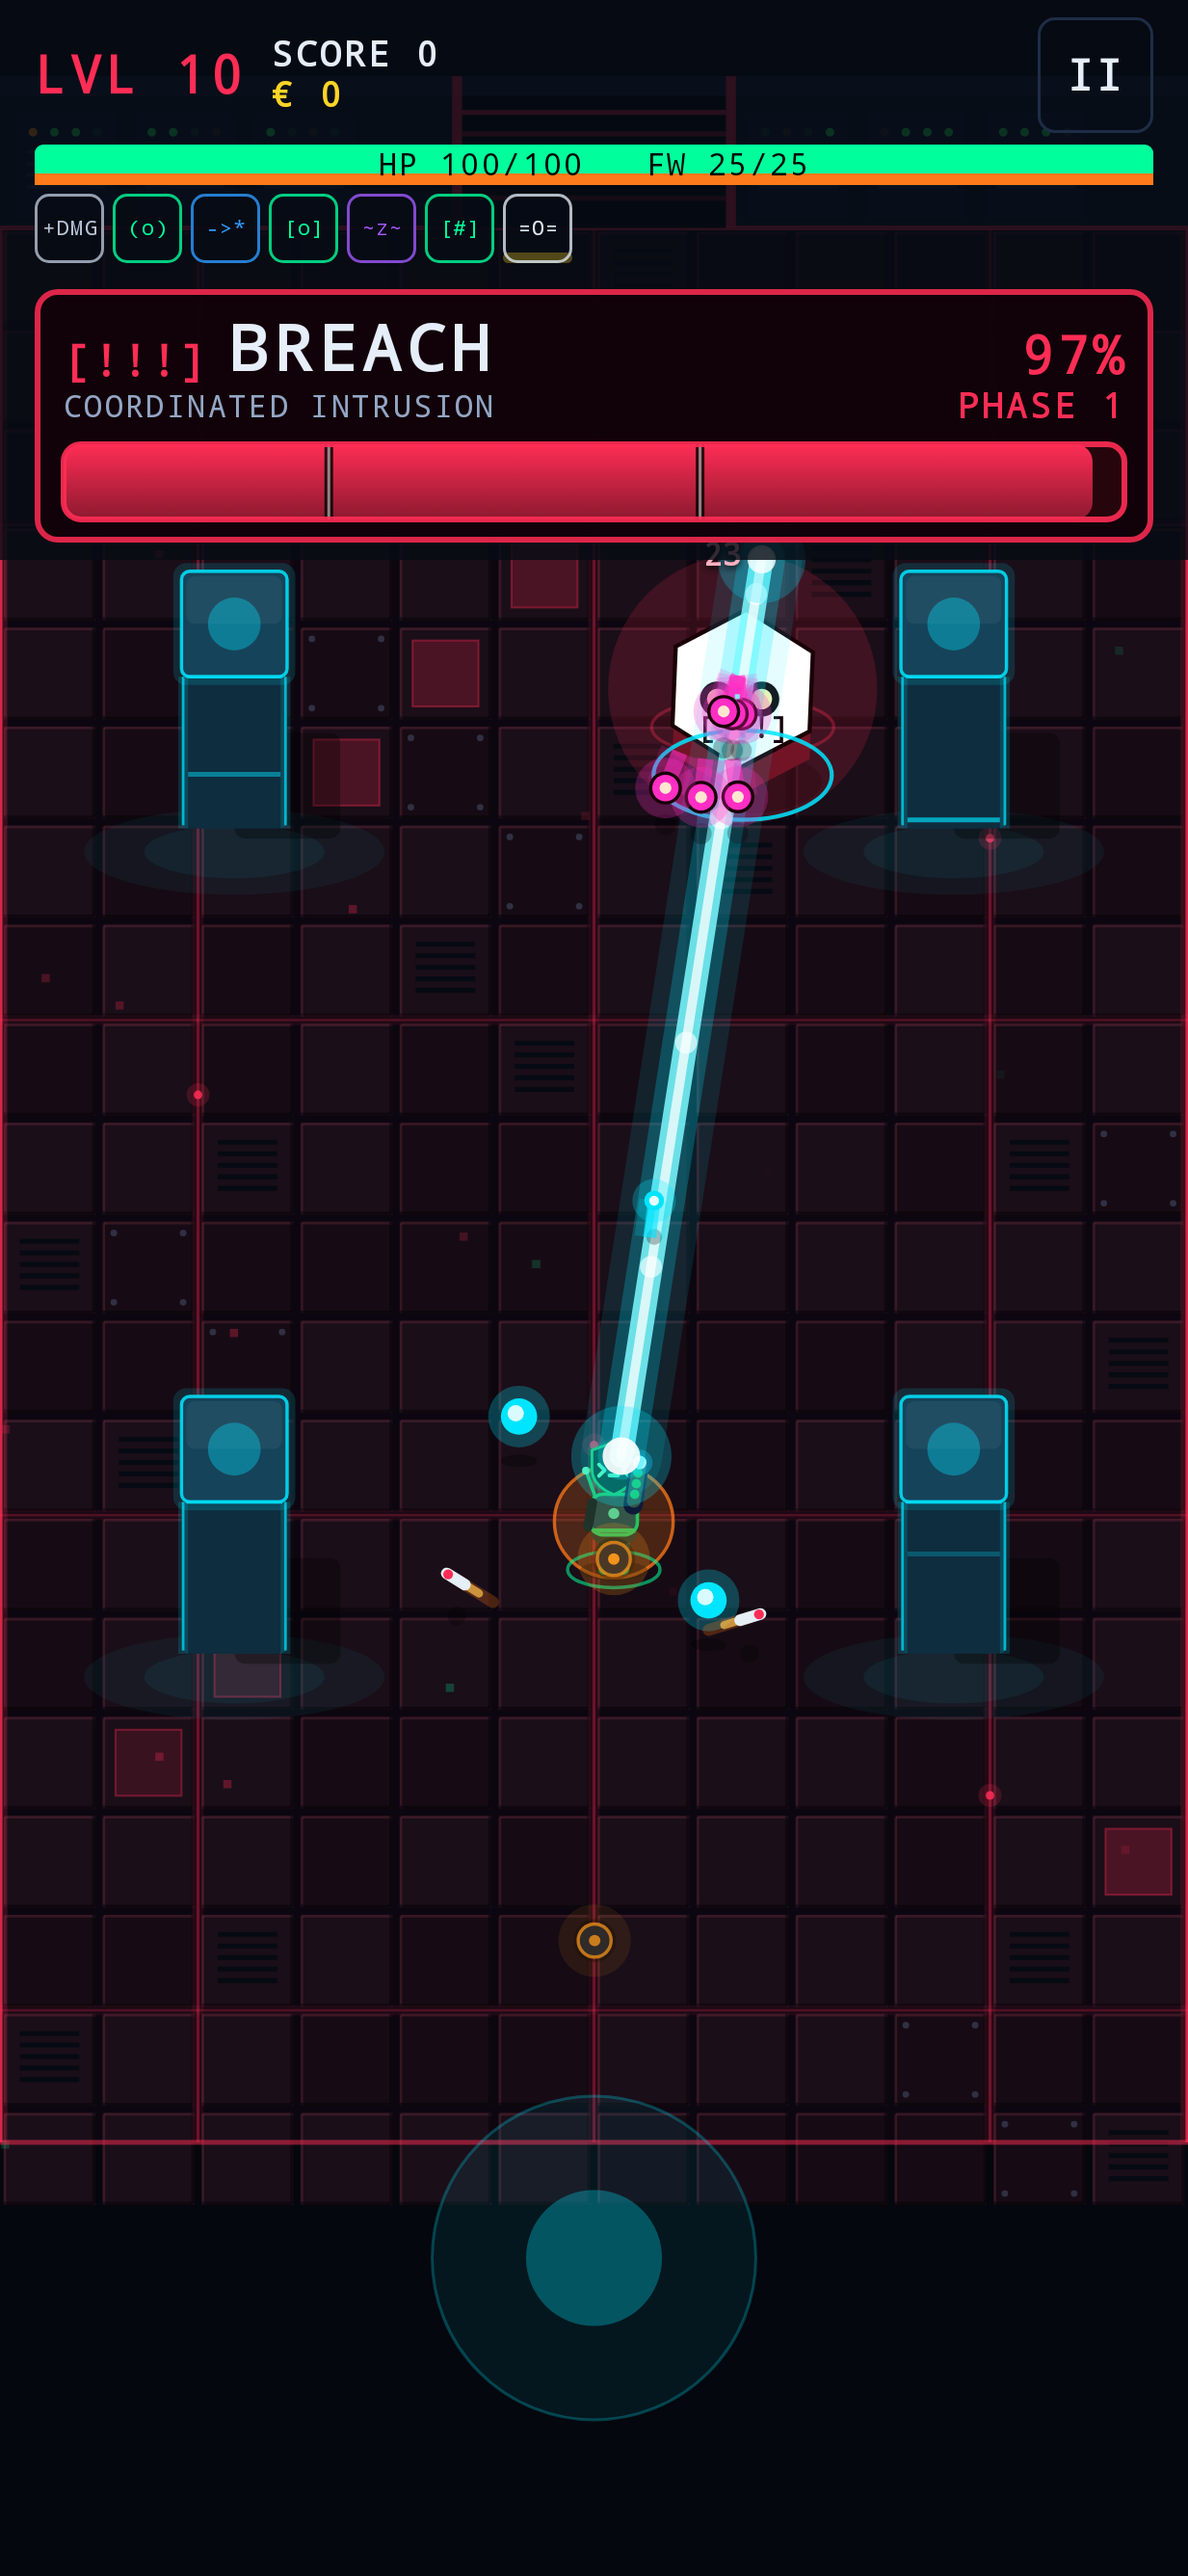
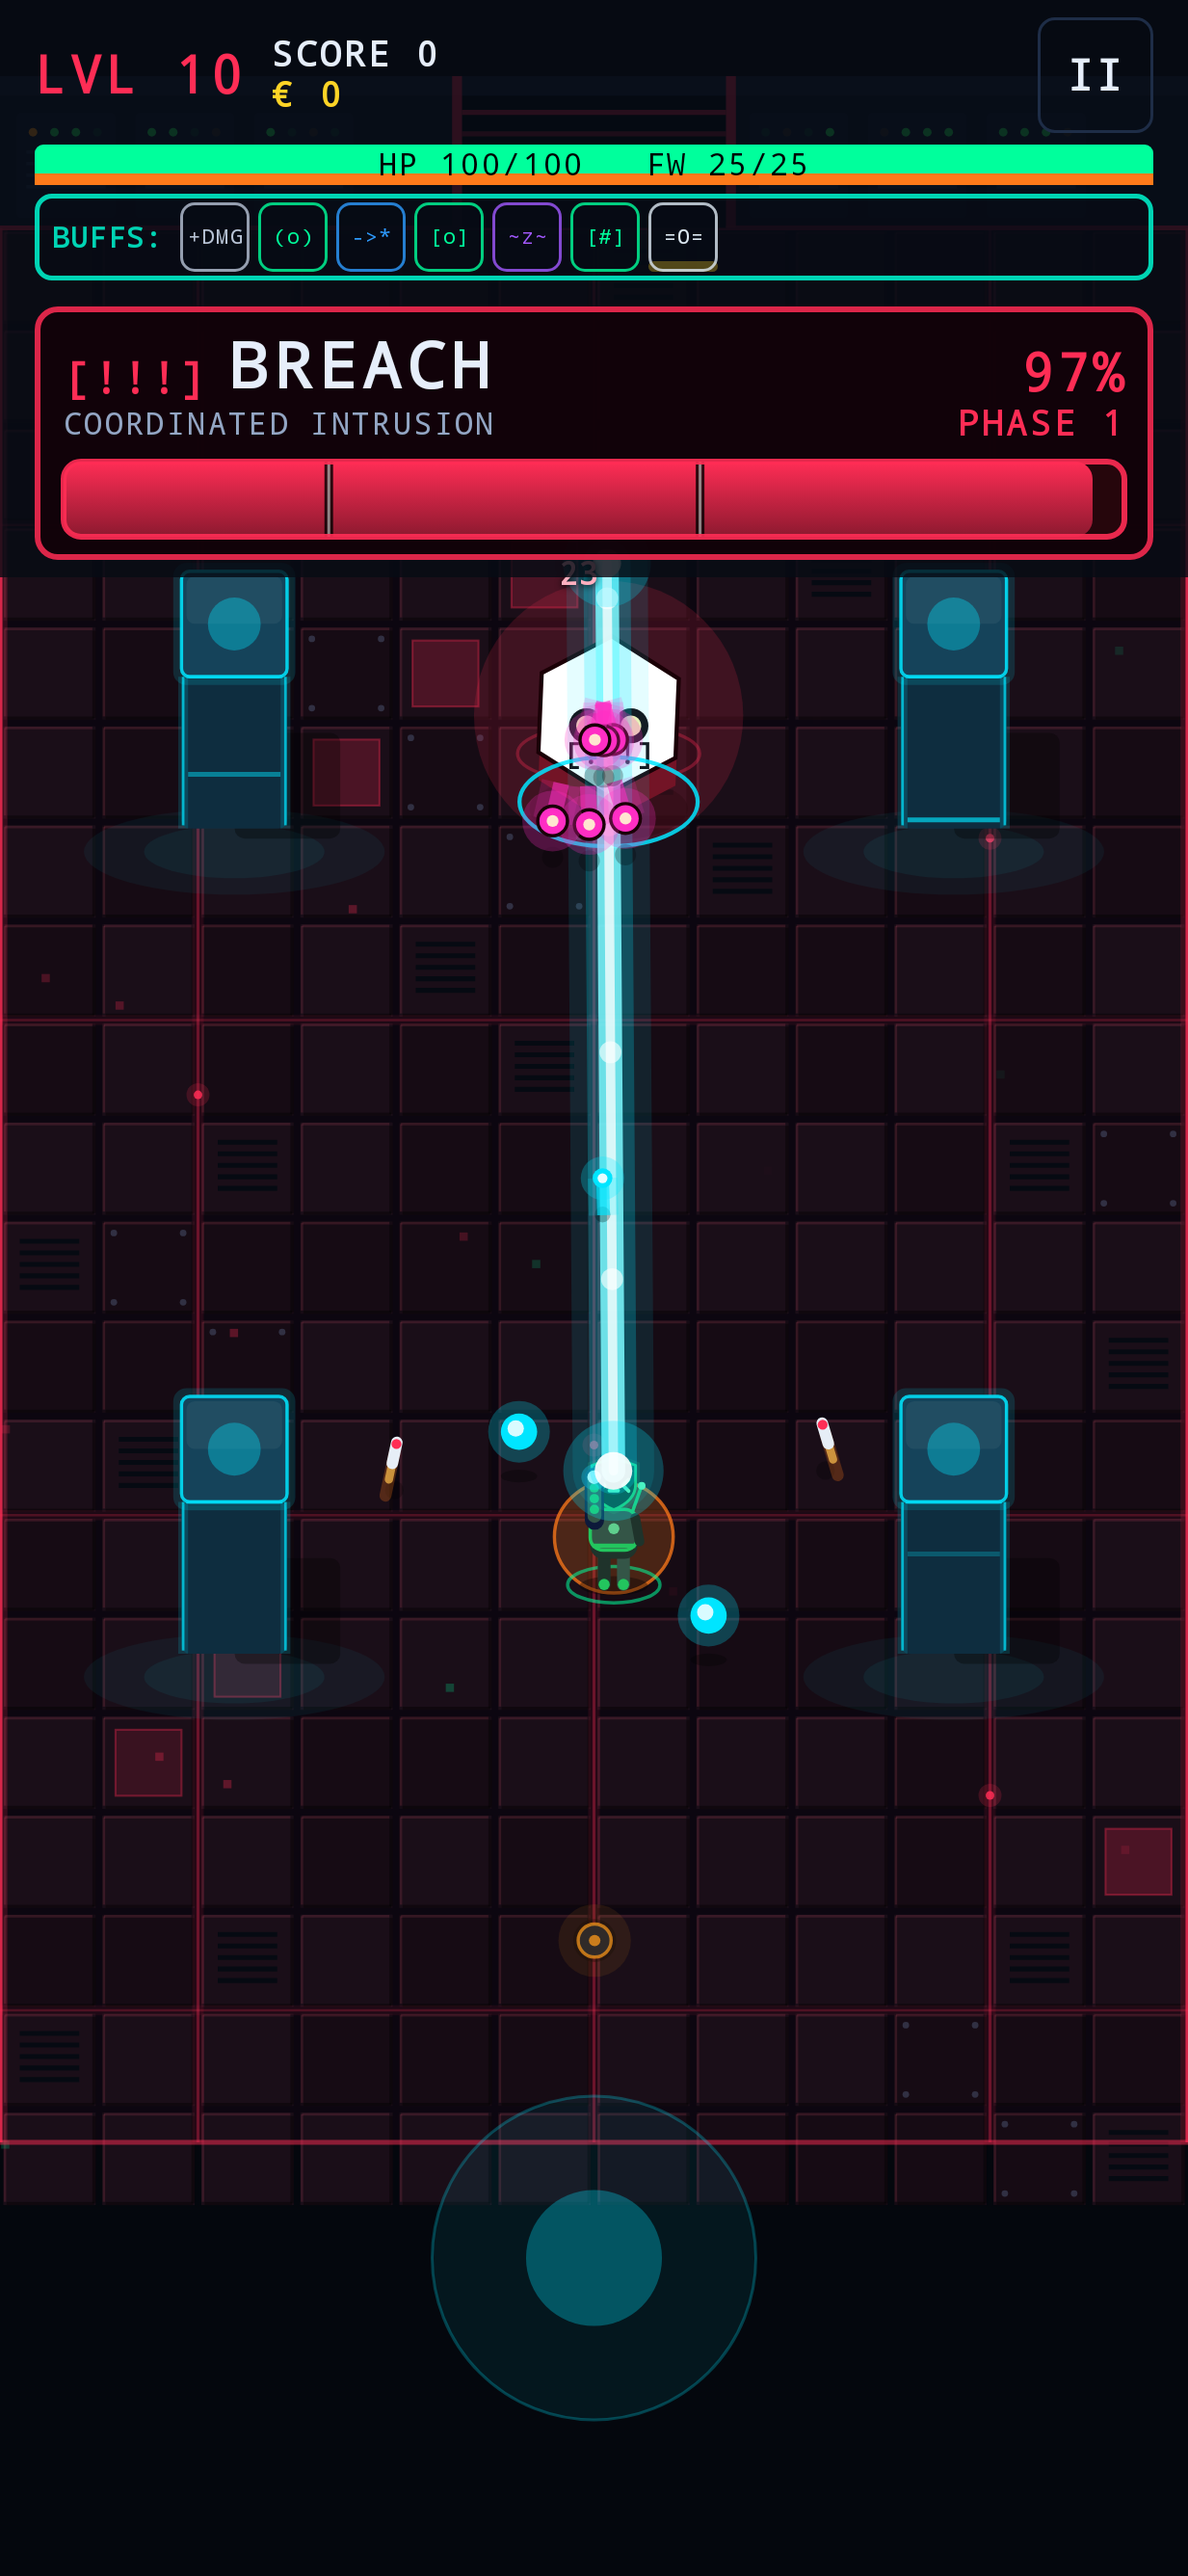
feat: BUFFS bar with blue-green outline and label
Claude-Session: https://claude.ai/code/session_01J4fYSi9rfQR62SLnfyrDCN

diff --git a/app/src/main/java/com/cyberoperative/game/ui/game/UpgradeBar.kt b/app/src/main/java/com/cyberoperative/game/ui/game/UpgradeBar.kt
@@ -50,7 +50,21 @@ import com.cyberoperative.game.ui.theme.Palette
 fun UpgradeBar(h: HudSnapshot, modifier: Modifier = Modifier) {
     if (h.owned.isEmpty()) return
     var held by remember { mutableStateOf<String?>(null) }
-    Box(modifier) {
+    // Solid blue-green frame around the buffs bar (owner, 2026-10-08).
+    val frame = RoundedCornerShape(6.dp)
+    Box(
+        modifier
+            .background(Palette.Background.copy(alpha = 0.6f), frame)
+            .border(1.5.dp, BUFF_BAR_OUTLINE, frame)
+            .padding(horizontal = 4.dp, vertical = 3.dp)
+    ) {
+        Row(verticalAlignment = Alignment.CenterVertically) {
+        // "BUFFS:" label, icons to its right (owner, 2026-10-08).
+        Text(
+            "BUFFS:", color = BUFF_BAR_OUTLINE, fontSize = 10.sp,
+            fontWeight = androidx.compose.ui.text.font.FontWeight.Bold,
+            modifier = Modifier.padding(start = 2.dp, end = 6.dp)
+        )
         Row(
             Modifier.horizontalScroll(rememberScrollState()),
             horizontalArrangement = Arrangement.spacedBy(3.dp)
@@ -71,15 +85,19 @@ fun UpgradeBar(h: HudSnapshot, modifier: Modifier = Modifier) {
                 )
             }
         }
+        }
         // Details float below the row while an icon is held, so nothing in the HUD moves.
         val heldDef = held?.let { id -> Upgrades.all.firstOrNull { it.id == id } }
         if (heldDef != null) {
-            Popup(offset = IntOffset(0, with(LocalDensity.current) { 30.dp.roundToPx() })) {
+            Popup(offset = IntOffset(0, with(LocalDensity.current) { 34.dp.roundToPx() })) {
                 UpgradeTooltip(heldDef, h.owned.firstOrNull { it.first == heldDef.id }?.second ?: 1)
             }
         }
     }
 }
+
+/** Blue-green (teal) outline of the buffs bar. */
+private val BUFF_BAR_OUTLINE = Color(0xFF00D4B4)
 
 @Composable
 private fun UpgradeIcon(def: UpgradeDef, level: Int, beamHeat: Float, beamCooldown: Float, modifier: Modifier) {

diff --git a/app/src/main/java/com/cyberoperative/game/ui/game/GameScreen.kt b/app/src/main/java/com/cyberoperative/game/ui/game/GameScreen.kt
@@ -119,7 +119,7 @@ fun GameScreen(
     ) {
         // The big boss bar makes the HUD taller; keep the boss out from under it.
         // The upgrade icon row lives under the HP bar, so the arena starts lower when it is shown.
-        val iconRow = if (hud.owned.isNotEmpty()) 28.dp else 0.dp
+        val iconRow = if (hud.owned.isNotEmpty()) 36.dp else 0.dp
         val topInsetPx = with(density) { ((if (hud.bossName != null) 210.dp else 118.dp) + iconRow).toPx() }
         val bottomInsetPx = with(density) { 150.dp.toPx() }
         val restX = constraints.maxWidth / 2f
@@ -189,7 +189,7 @@ fun GameScreen(
         GameHud(hud, onPause = { session.paused = true })
 
         if (hud.bannerVisible && hud.banner.isNotEmpty() && hud.phase != Phase.UPGRADE) {
-            Banner(hud, Modifier.align(Alignment.TopCenter).padding(top = 170.dp + if (hud.owned.isNotEmpty()) 28.dp else 0.dp))
+            Banner(hud, Modifier.align(Alignment.TopCenter).padding(top = 170.dp + if (hud.owned.isNotEmpty()) 36.dp else 0.dp))
         }
         if (hud.phase == Phase.PORTAL) {
             Text(
@@ -197,7 +197,7 @@ fun GameScreen(
                 color = Palette.Green, style = MaterialTheme.typography.labelMedium,
                 modifier = Modifier
                     .align(Alignment.TopCenter)
-                    .padding(top = 128.dp + if (hud.owned.isNotEmpty()) 28.dp else 0.dp)
+                    .padding(top = 128.dp + if (hud.owned.isNotEmpty()) 36.dp else 0.dp)
                     .background(Palette.Background.copy(alpha = 0.75f), RoundedCornerShape(4.dp))
                     .padding(horizontal = 10.dp, vertical = 4.dp)
             )
